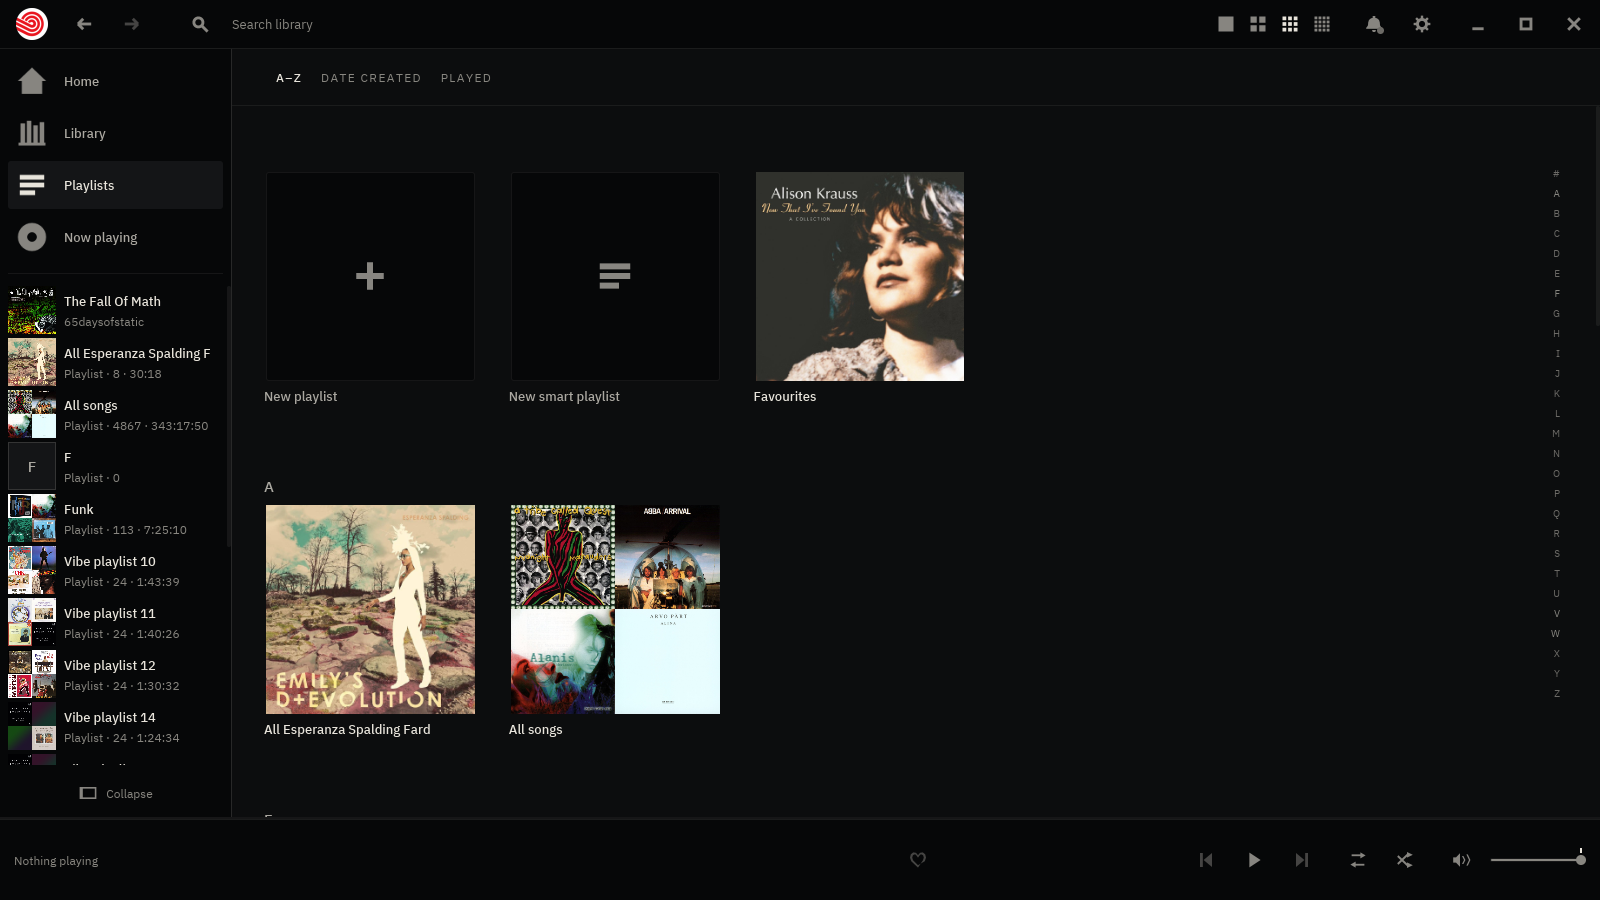
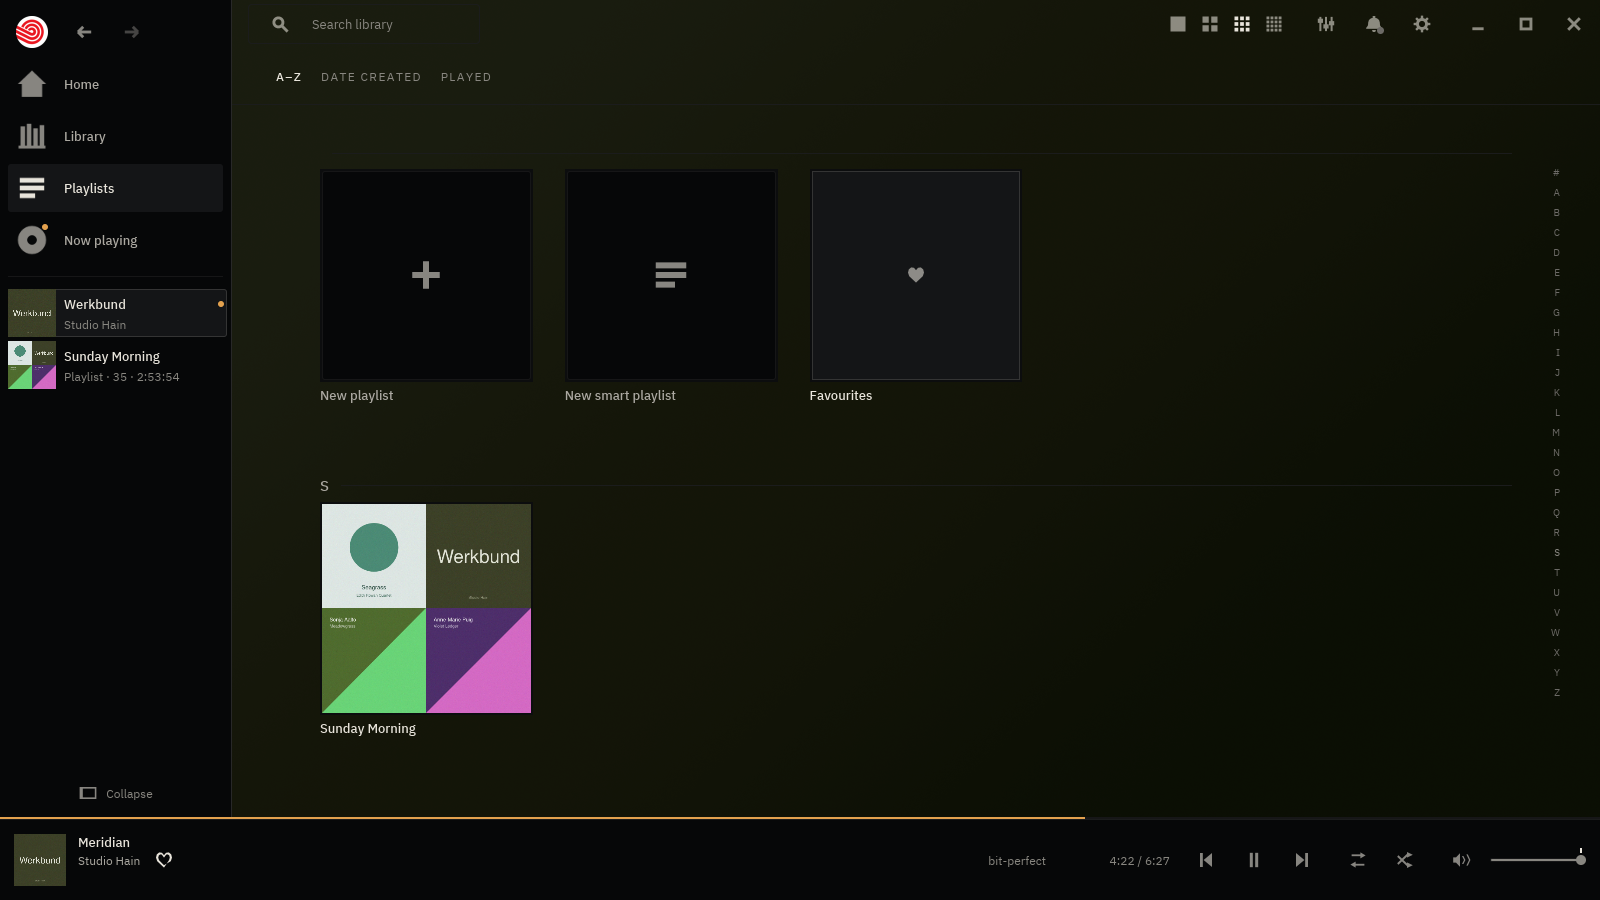
Prepare 0.4.0 release and refresh screenshots

diff --git a/README.md b/README.md
@@ -32,7 +32,7 @@ worth looking at, without any of their clouds.
   densities. baz remembers where you left it.
 - **It just plays.** Gapless between tracks — a live album or a mixed record
   runs as one piece, with no click and no pause. FLAC, MP3, WAV, ALAC, AAC,
-  Ogg Vorbis.
+  AIFF and Ogg Vorbis.
 - **Nothing touches your files.** baz reads your folders and never writes to
   them: no tags rewritten, no files moved, nothing left behind. Move your
   music and baz finds it again.
@@ -50,9 +50,12 @@ worth looking at, without any of their clouds.
   changes nothing on the way out; when it *has* to change something it says so
   on screen. If your files carry ReplayGain tags it will use them, and it can
   measure your library itself.
+- **Shape the sound when you want to.** A ten-band equalizer is one click away
+  from every room, with named curves, your own saved presets and automatic
+  headroom protection. Leave it off and the direct, bit-perfect path remains.
 - **It belongs to your desktop.** Media keys, the lock screen and GNOME's and
   KDE's own controls all drive baz and show the cover.
-- **Four themes**, plus a plain file format for writing your own.
+- **Sixteen themes**, plus a plain file format for writing your own.
 
 |  |  |
 |---|---|
@@ -60,6 +63,8 @@ worth looking at, without any of their clouds.
 | **Now playing** — cover, rotating jewel case, or a spectrum-led room with no album object. | **Playlists** — the ones you have made, beside Favourites and the way to a new one. Each is an ordinary `.m3u8` on disk. |
 | ![A record's page](docs/screenshots/album.png) | ![Search](docs/screenshots/search.png) |
 | **A record** — the sleeve at size, the run in play order, and both editions the library merged. | **Search** — app-wide, from any place, reaching tracks as well as records. |
+| ![Equalizer](docs/screenshots/equalizer.png) | ![Home](docs/screenshots/home.png) |
+| **Equalizer** — ten bands, a live response curve, safe auto gain, built-in situations and curves you can save. | **Home** — the collection at a glance: all songs, recent additions and the way back to the music. |
 
 ![A smart playlist: draw how it should move](docs/screenshots/smart-playlist.png)
 
@@ -70,10 +75,9 @@ rows down the list: *quiet · slow · dark* at the top, *loud · fast · noisy* 
 the bottom. Every track is analysed on your own machine, and none of your
 audio leaves it.
 
-> These are real screenshots of a real 4 870-track library, not a mock-up.
-> `docs/screenshots/capture.sh` takes them from the shipping binary.
-
-![Home](docs/screenshots/home.png)
+> These are real screenshots from the shipping binary, captured against the
+> project's representative music fixture — not mock-ups.
+> `docs/screenshots/capture.sh` refreshes them reproducibly.
 
 The long version of all of this — every audio claim and how it is checked — is
 in [`docs/FEATURES.md`](docs/FEATURES.md).

diff --git a/CHANGELOG.md b/CHANGELOG.md
@@ -24,6 +24,36 @@ Every release is built from a tag by CI, gated on the full test suite — see
 
 ## [Unreleased]
 
+## [0.4.0] - 2026-08-20
+
+### Added
+
+- **Install baz like an app on every supported platform.** Releases now carry
+  a Linux Flatpak bundle, a Windows MSI and a macOS DMG alongside the existing
+  archives. The Linux archive also includes a reversible per-user installer
+  that installs the application entry, metadata and icons.
+- **Optional update checks and a verified installer hand-off.** Baz can check
+  GitHub Releases once at startup, download the matching platform installer,
+  compare it with the published SHA-256 sum, and hand it to the platform. It
+  never replaces a running application itself; the setting can turn the check
+  off, and Flatpak continues to be updated by its store.
+- **A ten-band graphic equaliser.** It is available from every page, can be
+  completely bypassed, draws its real response curve, offers automatic
+  headroom, and saves listener-owned presets.
+- **More ways to listen and look.** AIFF and Ogg Vorbis join the library;
+  Now Playing gains an oscilloscope and a chromeless presentation; themes gain
+  more rooms and record-aware colour; and a file or folder dropped on a
+  running Baz is queued to play.
+
+### Changed
+
+- **The whole keyboard can reach more of Baz.** The app frame, transport,
+  lane and collection now participate in Tab navigation, with a focused
+  collection still navigated by arrow keys.
+- **Library and playlist details are more resilient.** Missing playlist files
+  can be located again, untagged compilations group correctly, and search also
+  finds playlists while treating `and` and `&amp;` as the same word.
+
 ## [0.3.0] - 2026-08-17
 
 ### Changed
@@ -3098,7 +3128,8 @@ a promise about the next commit.
   output (which is also what puts hardware volume out of reach).
   `docs/BACKLOG.md` is the honest list.
 
-[Unreleased]: https://github.com/mattcree/baz/compare/v0.3.0...main
+[Unreleased]: https://github.com/mattcree/baz/compare/v0.4.0...main
+[0.4.0]: https://github.com/mattcree/baz/releases/tag/v0.4.0
 [0.3.0]: https://github.com/mattcree/baz/releases/tag/v0.3.0
 [0.2.0]: https://github.com/mattcree/baz/releases/tag/v0.2.0
 [0.1.0]: https://github.com/mattcree/baz/releases/tag/v0.1.0
